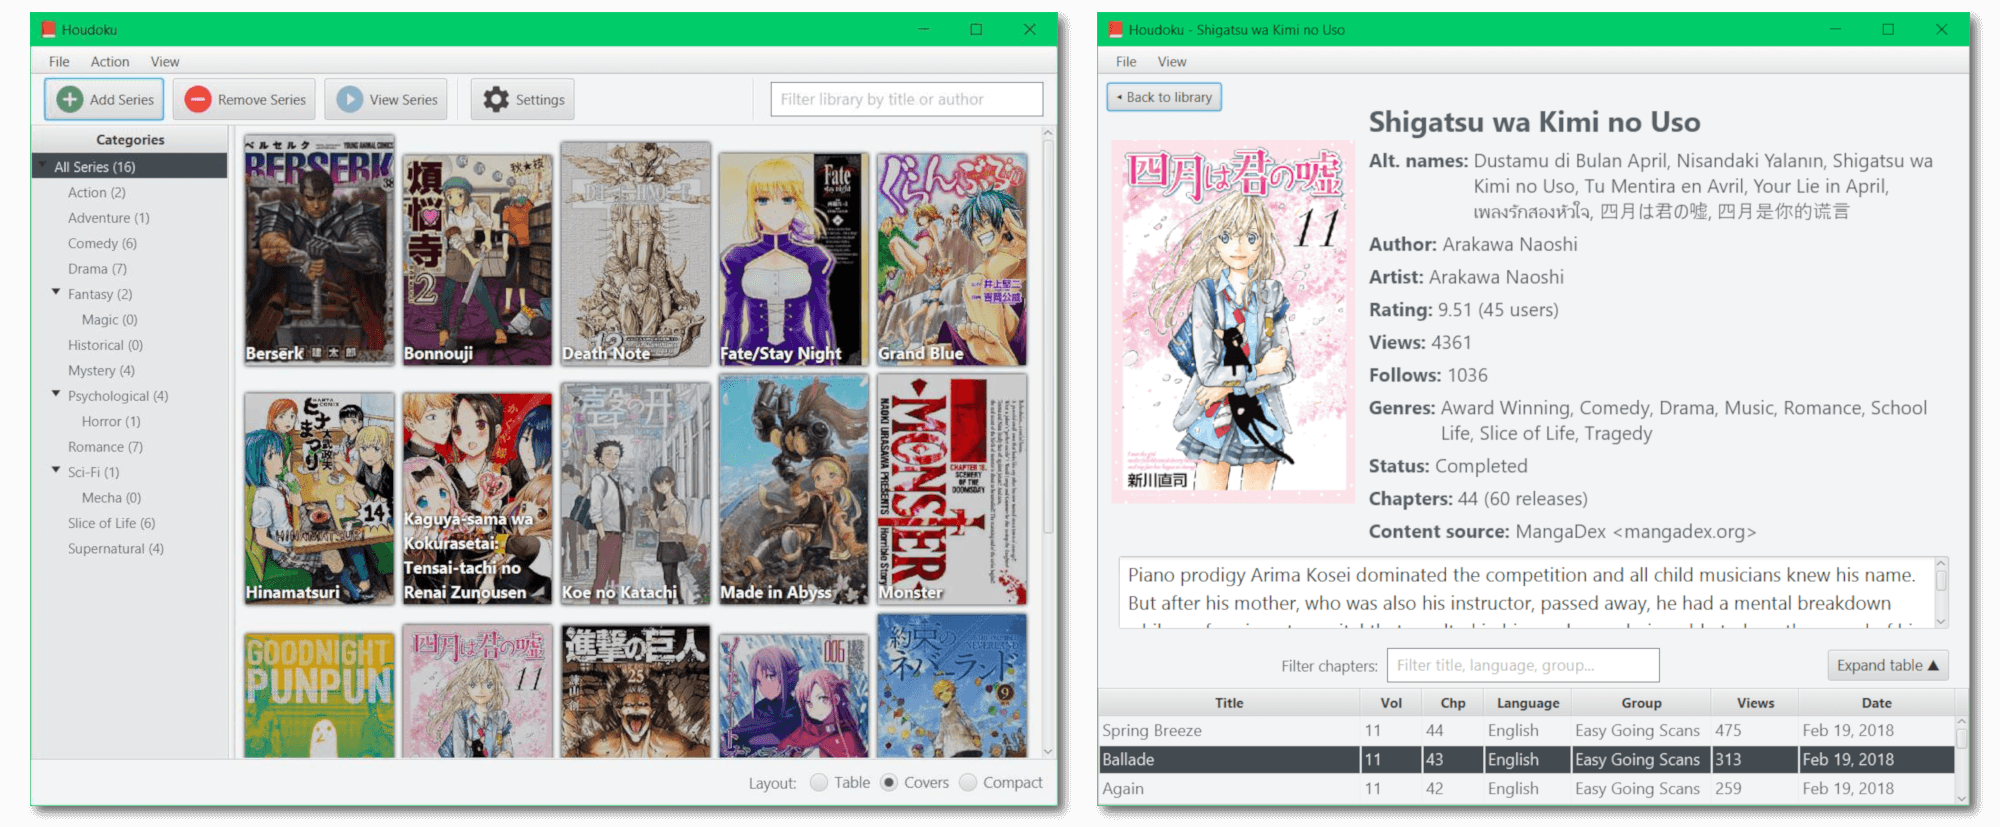
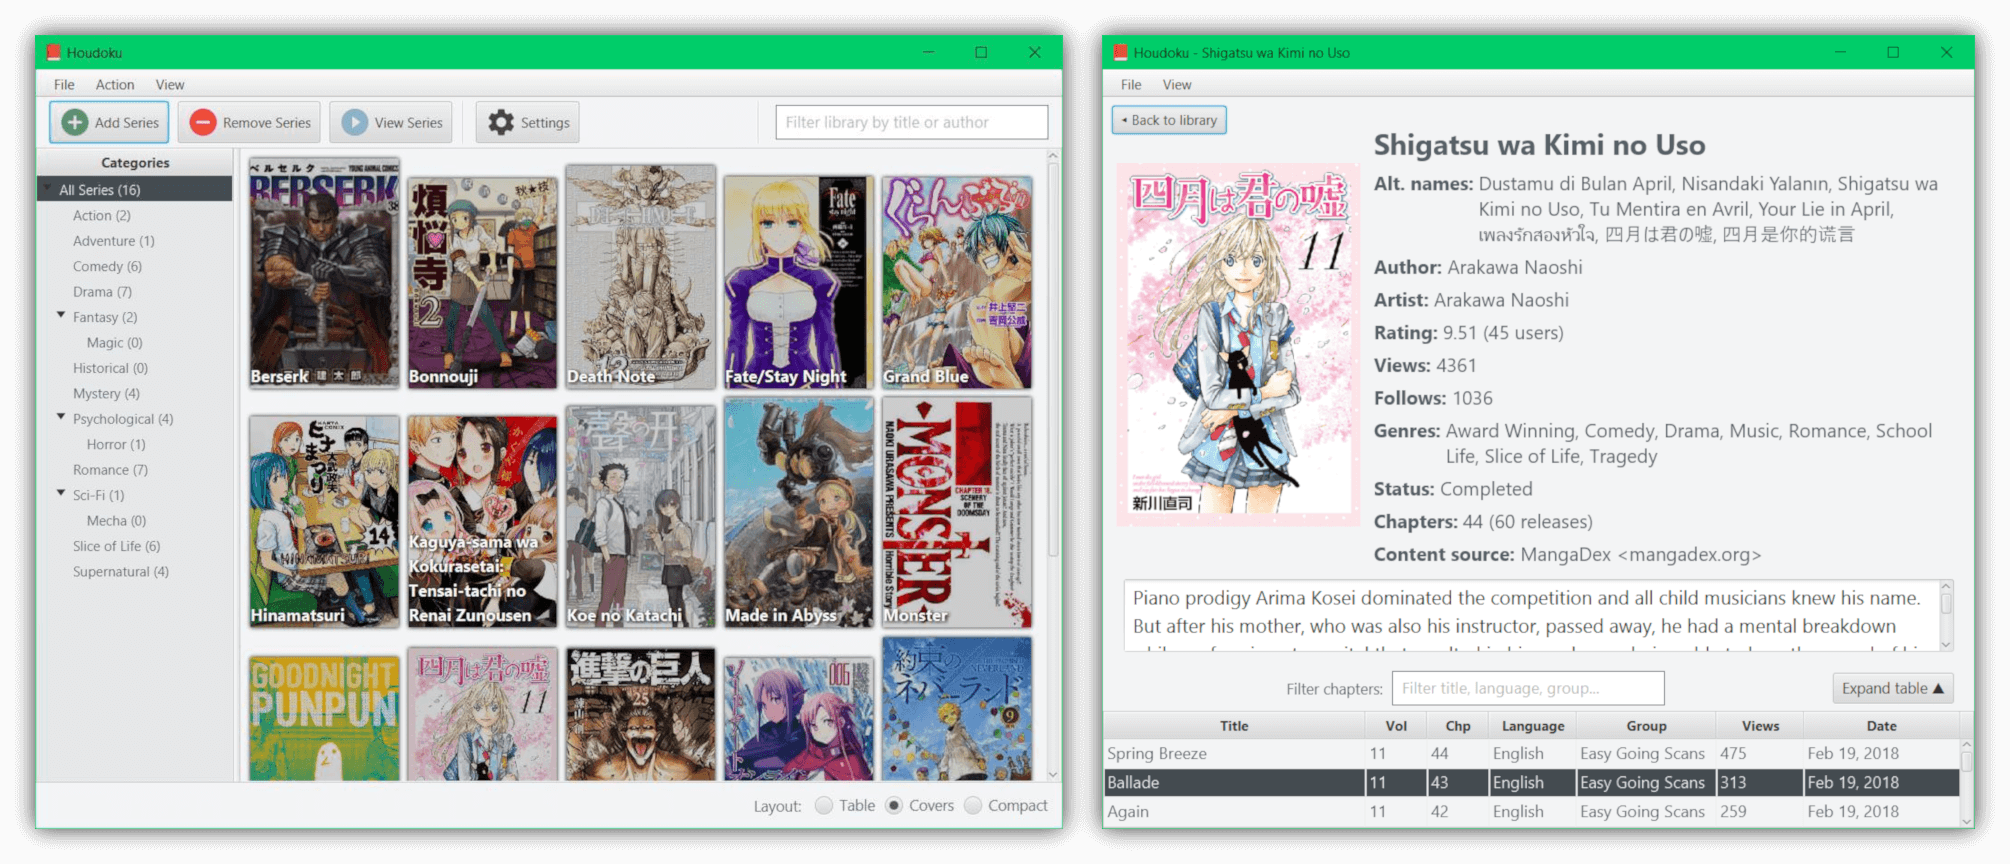
update screenshot shadows

diff --git a/README.md b/README.md
@@ -14,7 +14,11 @@ Houdoku is a manga reader and library manager for the desktop.
 * Customizable reader interface with optional dark/night mode.
 * Browse and manage your library with tagging and filtering support.
 
+---
+
 ![Screenshots](/res/screenshots.png)
+
+---
 
 # Download
 
